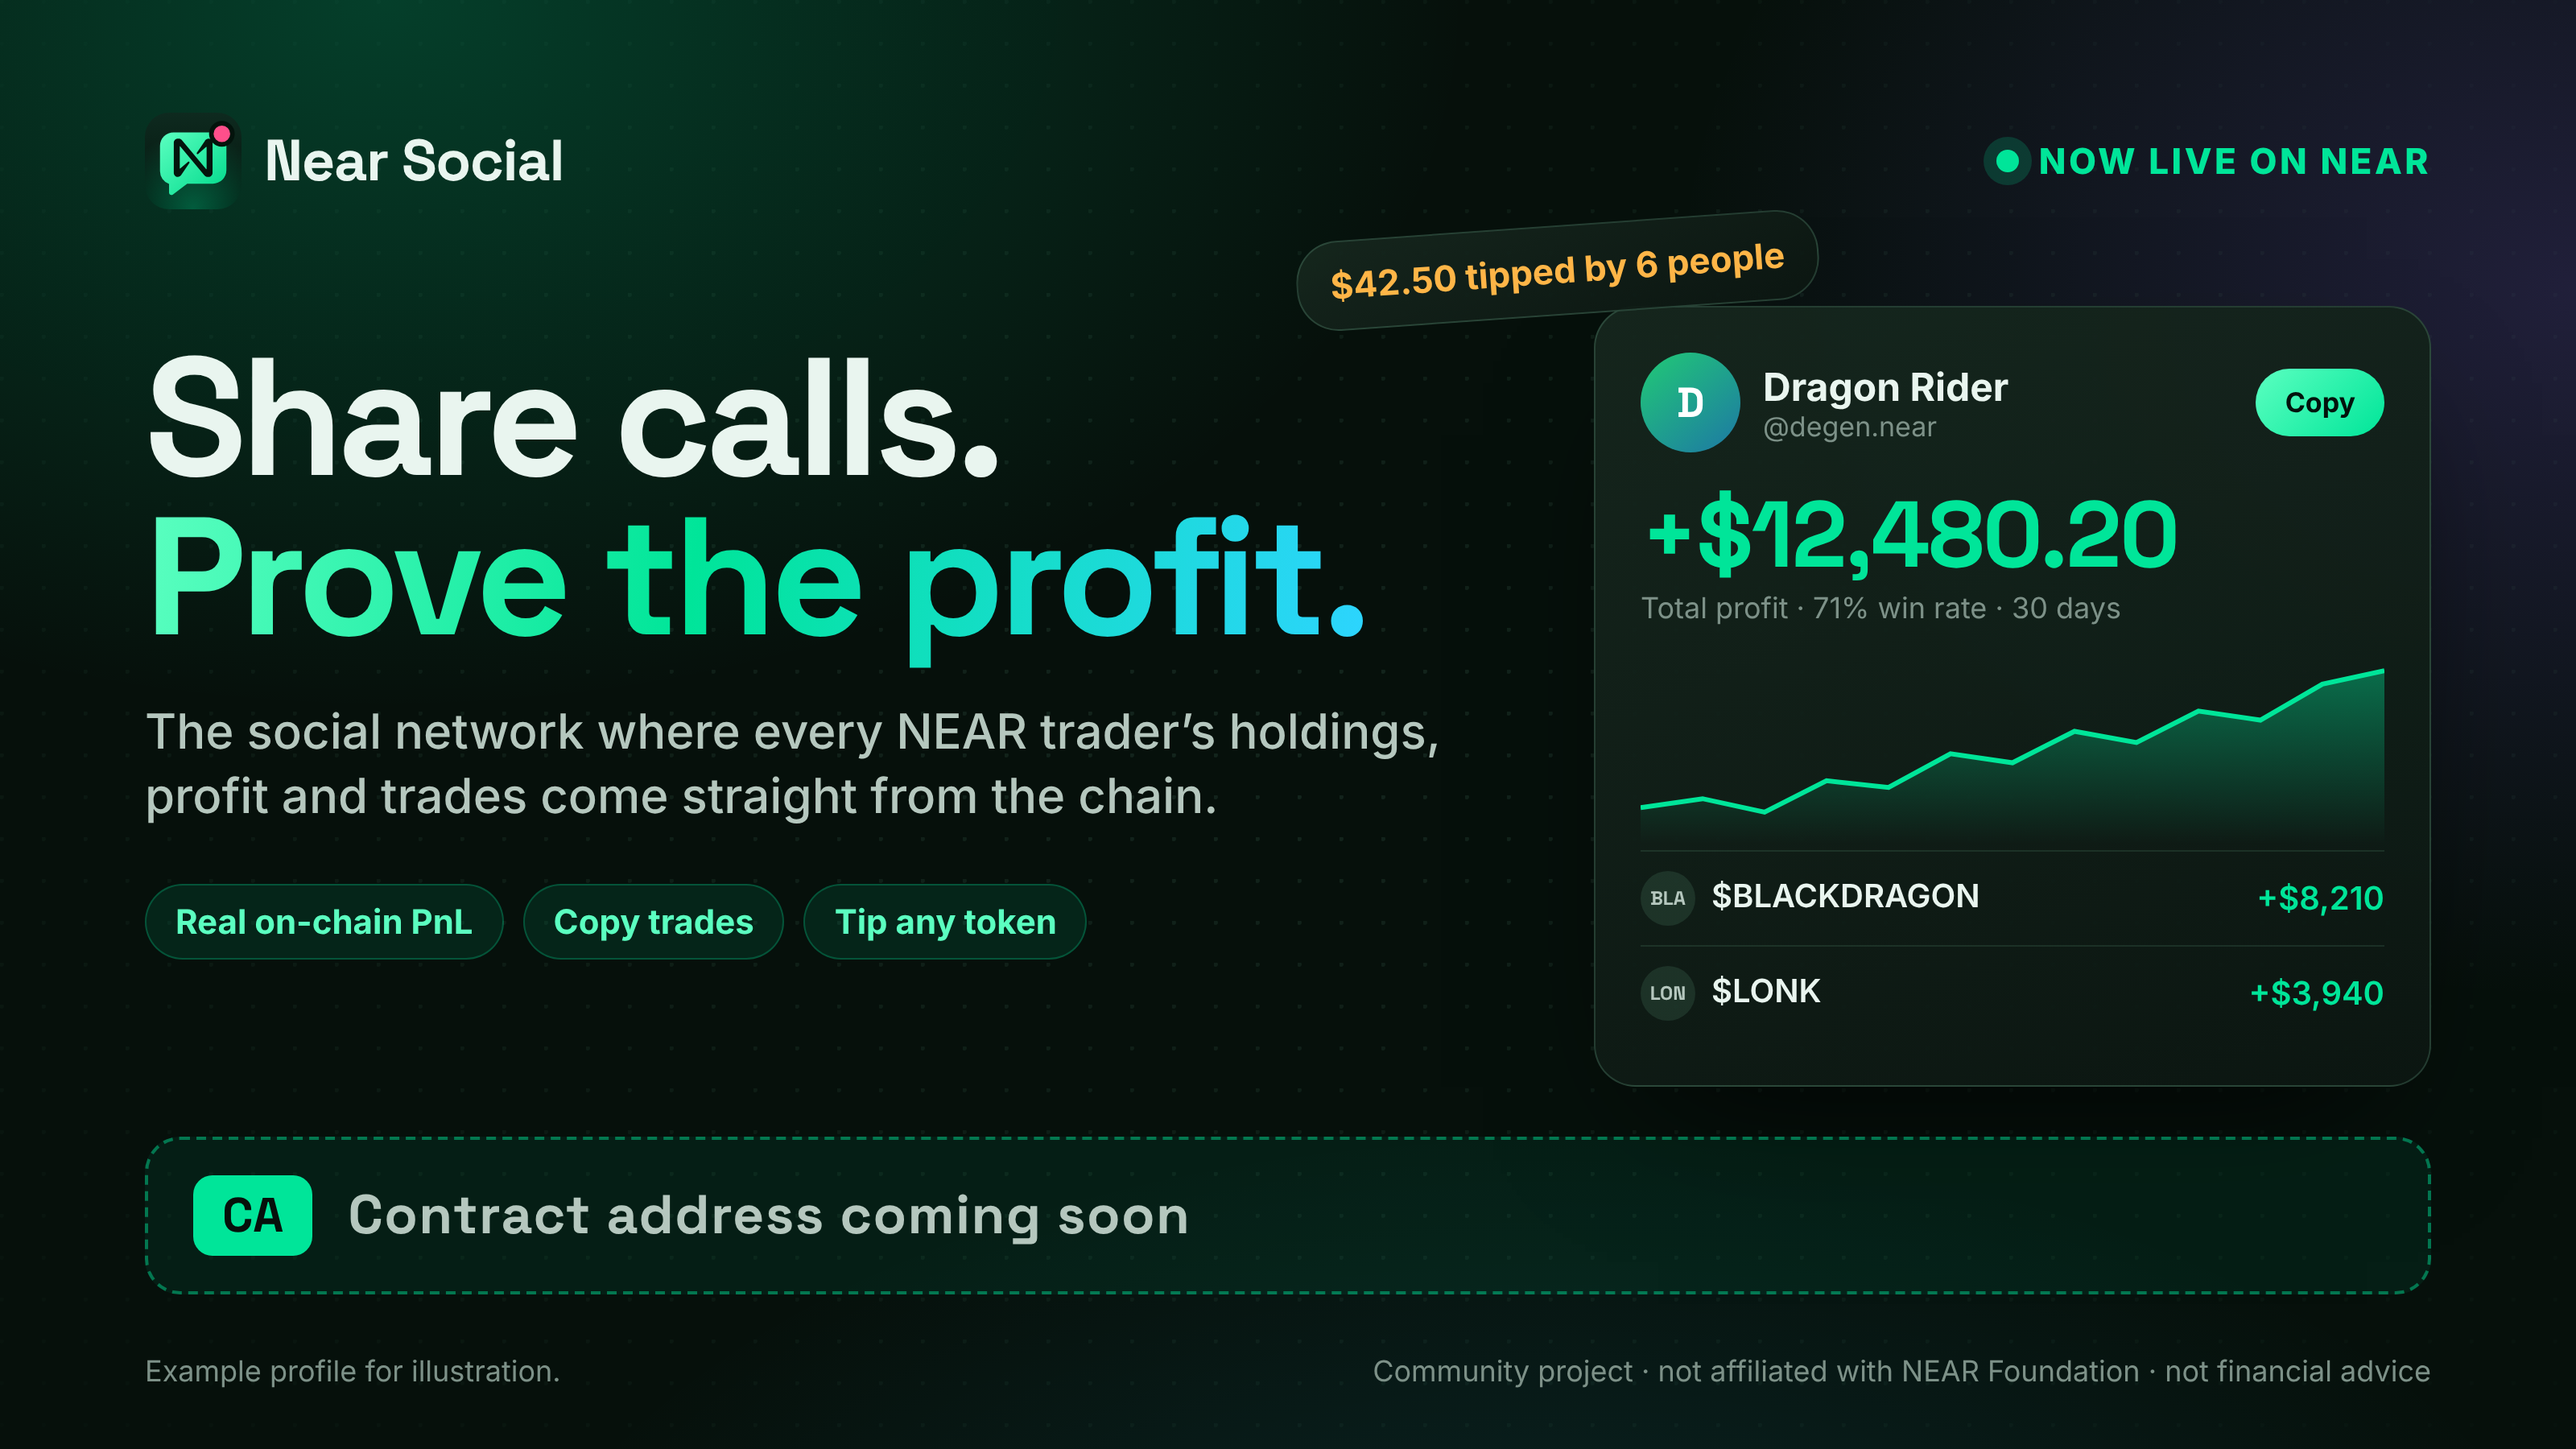
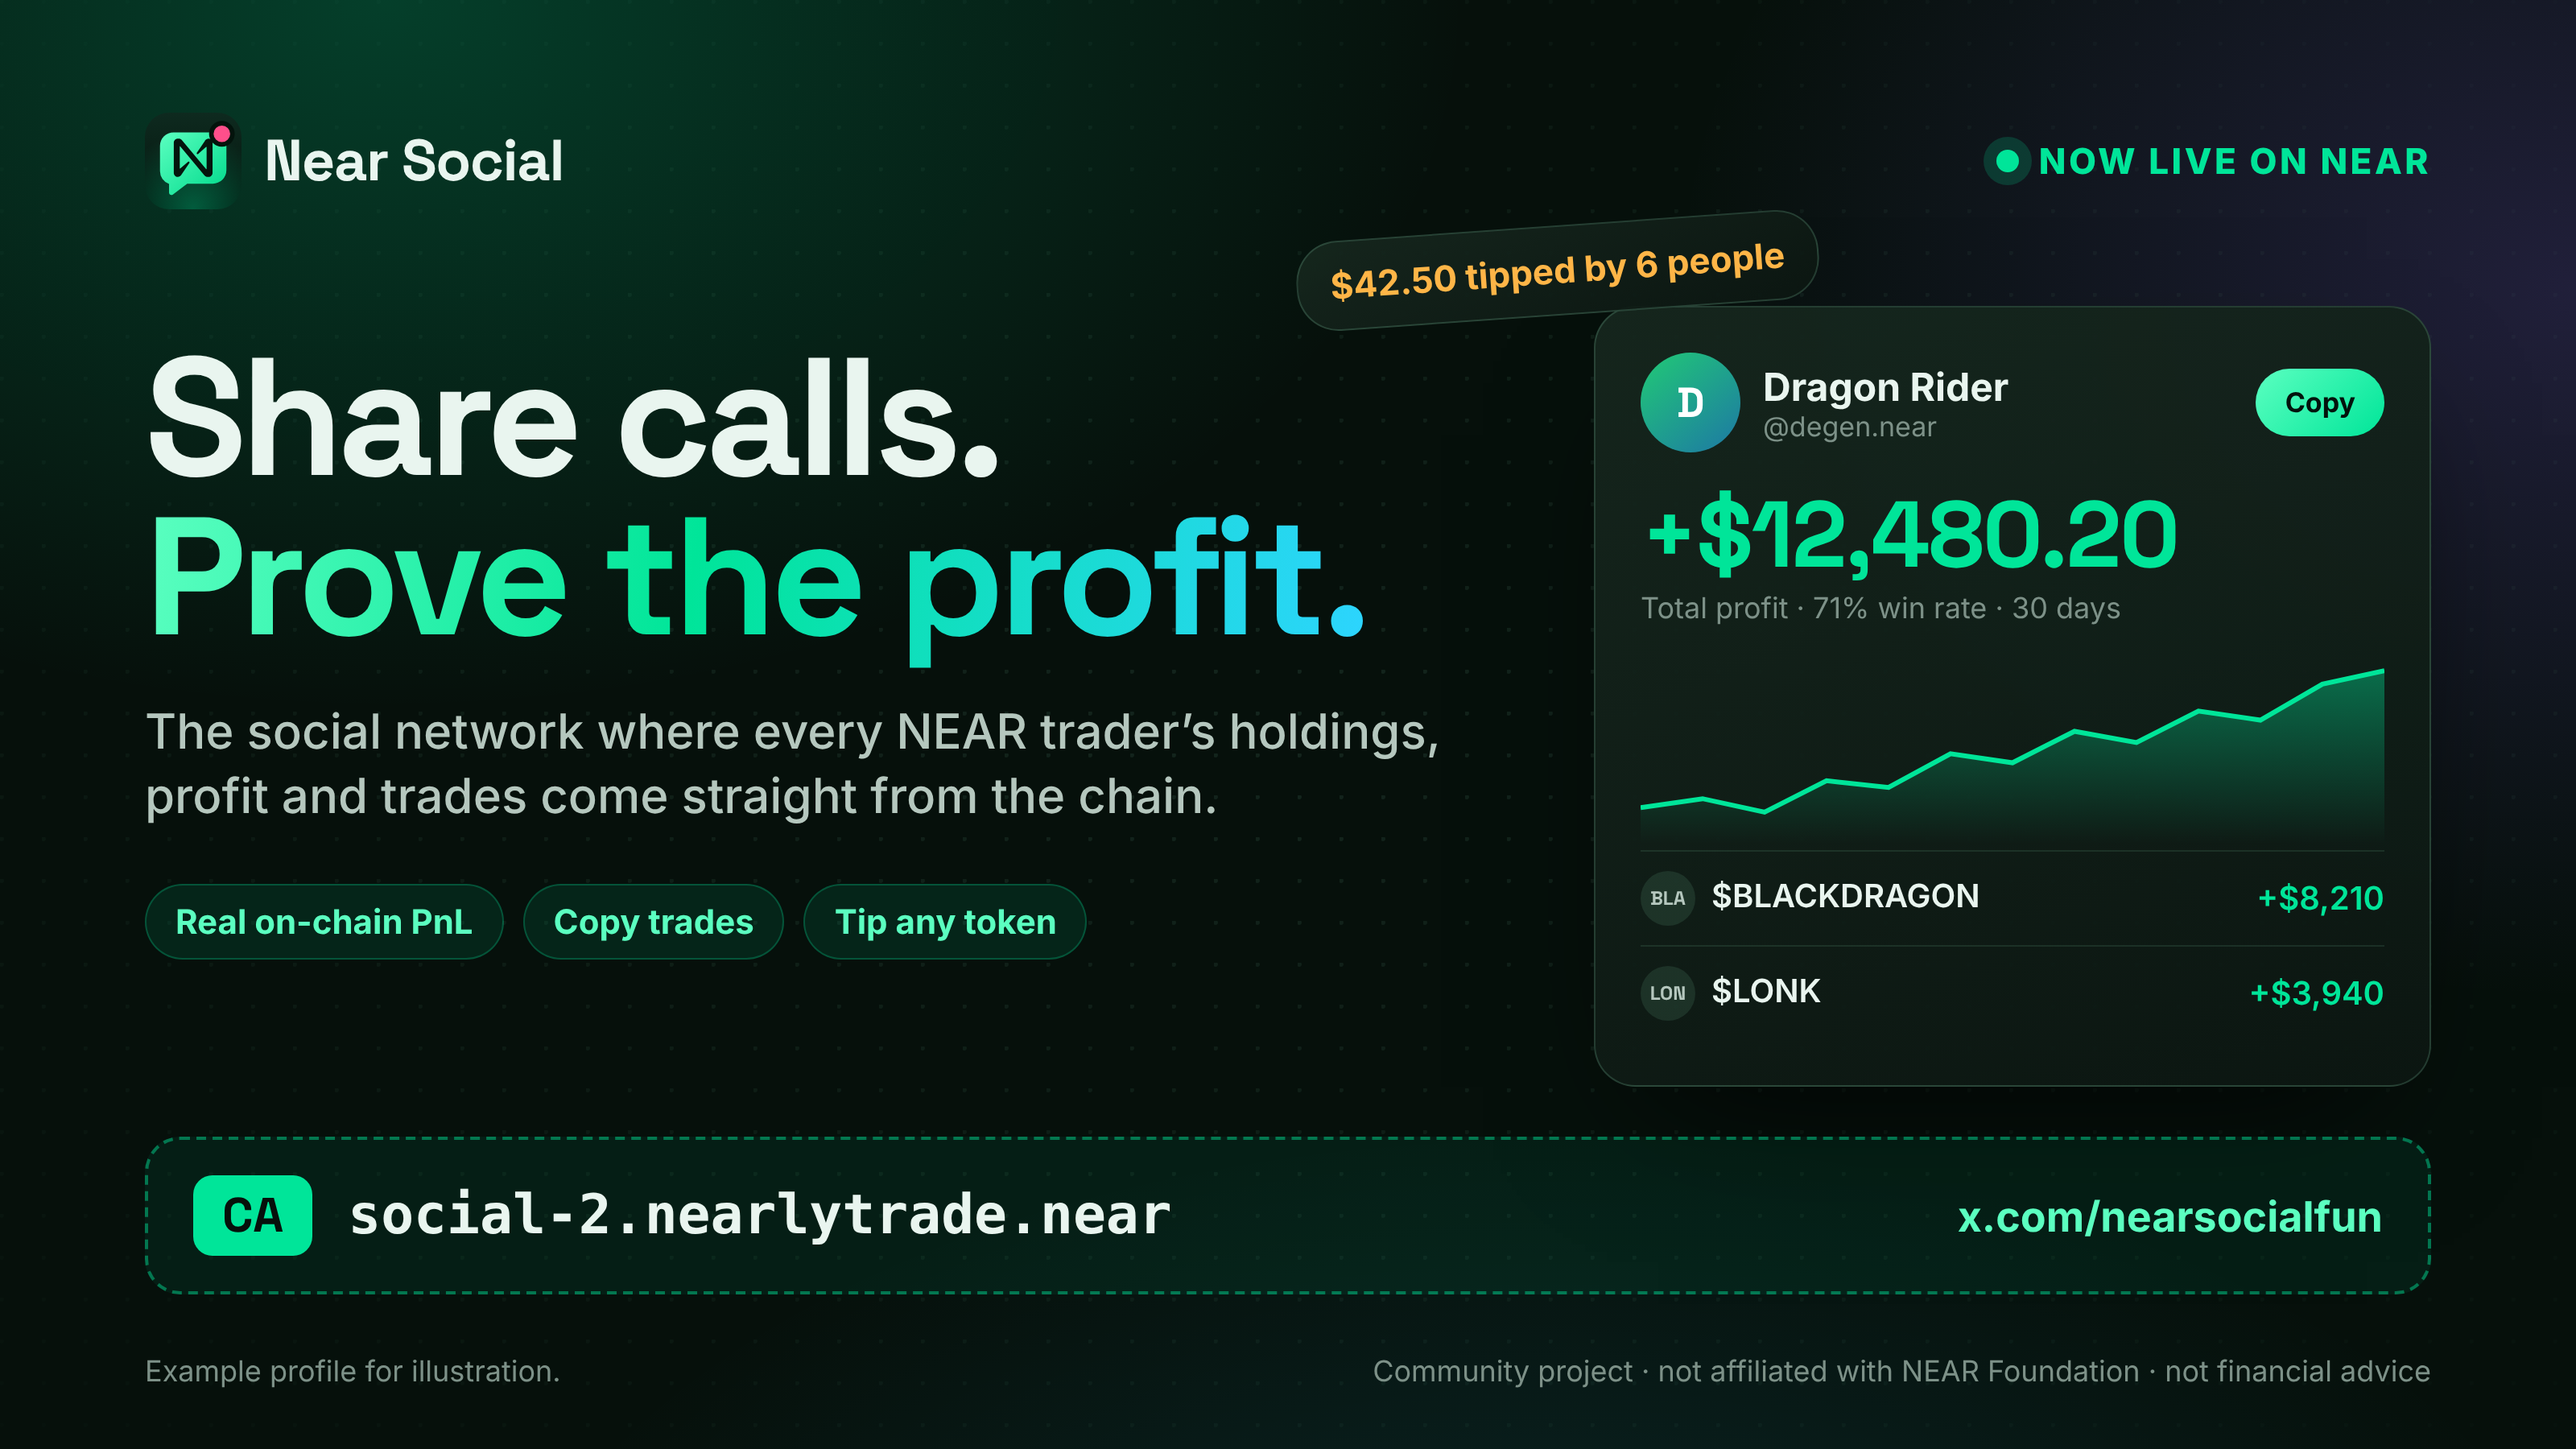
Show official CA and X account on the site and launch image
Adds TOKEN_CA (social-2.nearlytrade.near) and X_HANDLE (nearsocialfun)
settings. The home page, sidebar and About page show the CA with a Copy
button, a token page link and the X link.

Claude-Session: https://claude.ai/code/session_01B6oRzniDbEAMEUkP3ZUaxK

Changed region(s): [[0.125, 0.8089, 0.4688, 0.8711], [0.7812, 0.8089, 0.9375, 0.8711]]

diff --git a/public/app.js b/public/app.js
@@ -4,6 +4,7 @@
 
   // ------------------------------------------------------------------ icons
   const ICONS = {
+    xlogo: '<path fill="currentColor" stroke="none" d="M17.75 3h3.07l-6.7 7.66L22 21h-6.17l-4.83-6.32L5.47 21H2.4l7.17-8.2L2 3h6.33l4.37 5.77zm-1.08 16.2h1.7L7.4 4.73H5.58z"/>',
     home: '<path d="M3 10.5 12 3l9 7.5V20a1 1 0 0 1-1 1h-5v-6H9v6H4a1 1 0 0 1-1-1z"/>',
     trades: '<path d="M7 7h13l-4-4"/><path d="M17 17H4l4 4"/>',
     trophy: '<path d="M8 21h8M12 17v4M7 4h10v5a5 5 0 0 1-10 0z"/><path d="M17 5h3v2a3 3 0 0 1-3 3M7 5H4v2a3 3 0 0 0 3 3"/>',
@@ -754,6 +755,7 @@
     ];
     setPage(`${mobileTop()}${pageHead(`About ${app}`, 'The social network where every profile is backed by the NEAR blockchain.')}
       <div class="stack">
+        ${projectCard()}
         <section class="card pad"><h2 class="section-title">How it works</h2>
           <div class="steps">${steps.map(([ic, t, d], i) => `<div class="step"><span class="step-n">${i + 1}</span><div>${icon(ic)}<b>${esc(t)}</b><p>${esc(d)}</p></div></div>`).join('')}</div></section>
         <section class="card pad"><h2 class="section-title">What lives where</h2>
@@ -773,6 +775,20 @@
           ${faq.map(([q, a]) => `<details class="faq"><summary>${esc(q)}</summary><p>${esc(a)}</p></details>`).join('')}</section>
         <p class="foot-note" style="text-align:center">Not financial advice. Memecoins are extremely risky. Profits shown are past on-chain results.</p>
       </div>`);
+  }
+
+  // ------------------------------------------------------------------ official CA + X
+  const xUrl = () => (state.config.xHandle ? `https://x.com/${encodeURIComponent(state.config.xHandle)}` : '');
+  const xLink = (cls = 'btn sm') => (xUrl() ? `<a class="${cls}" href="${esc(xUrl())}" target="_blank" rel="noopener noreferrer">${icon('xlogo', 'sm')} @${esc(state.config.xHandle)}</a>` : '');
+  function projectCard(compact = false) {
+    const ca = state.config.tokenCa;
+    if (!ca && !xUrl()) return '';
+    return `<section class="card ca-card${compact ? ' compact' : ''}">
+      ${ca ? `<div class="ca-head"><span class="ca-label">Official CA</span><span class="muted">NEAR token contract</span></div>
+      <div class="ca-row"><code class="ca-value">${esc(ca)}</code><button class="btn sm primary" data-action="copy" data-text="${esc(ca)}" data-what="Contract address copied">${icon('copy', 'sm')} Copy</button></div>` : ''}
+      <div class="ca-actions">${ca ? `<a class="btn sm" href="${tokenLink(ca)}">${icon('chart', 'sm')} Token page</a>` : ''}${xLink()}</div>
+      ${ca ? '<p class="ca-warn">Only trust this CA. Copy it, never retype it. Look-alike tokens are scams.</p>' : ''}
+    </section>`;
   }
 
   // ------------------------------------------------------------------ landing (signed out)
@@ -817,6 +833,7 @@
           <div class="mock-float copy">${icon('copytrade', 'sm')} 128 copiers</div>
         </div>
       </section>
+      ${projectCard()}
       <section class="card stat-strip" id="siteStats">
         ${['Members', 'Trades tracked', 'Trading volume', 'Tipped to creators'].map((l) => `<div><b>—</b><span>${l}</span></div>`).join('')}
       </section>
@@ -1050,9 +1067,10 @@
 
   async function renderRail() {
     $('#rail').innerHTML = `<form data-form="search" class="search">${icon('search', 'sm')}<input type="search" name="q" placeholder="Search Near Social" aria-label="Search"></form>
+      ${projectCard(true)}
       <section class="card pad"><h3>Top traders</h3><div id="railBoard">${spinner}</div></section>
       <section class="card pad"><h3>Live trades</h3><div id="railTrades">${spinner}</div></section>
-      <div class="rail-foot"><a href="#/about">About</a> · Not financial advice · Built on NEAR</div>`;
+      <div class="rail-foot"><a href="#/about">About</a>${xUrl() ? ` · <a href="${esc(xUrl())}" target="_blank" rel="noopener noreferrer">X</a>` : ''} · Not financial advice · Built on NEAR</div>`;
     fillBoard($('#railBoard'), 5);
     fillTrades($('#railTrades'), 6);
   }
@@ -1100,7 +1118,7 @@
       }
       if (a === 'copy') {
         await navigator.clipboard.writeText(el.dataset.text).catch(() => {});
-        return toast('Account copied');
+        return toast(el.dataset.what || 'Account copied');
       }
       if (a === 'copy-user') return copyDialog({ wallet: el.dataset.wallet, name: el.dataset.name }, Number(el.dataset.amount) || 0);
       if (a === 'tip' || a === 'tip-user') return tipDialog({ wallet: el.dataset.wallet, name: el.dataset.name }, a === 'tip' ? Number(id) : null);

diff --git a/public/app.css b/public/app.css
@@ -520,3 +520,17 @@ img.avatar { object-fit: cover; background: var(--surface-3); }
 .avatar-edit b { display: block; }
 .avatar-edit p { margin: 2px 0 10px; font-size: 13.5px; }
 label.btn { cursor: pointer; }
+
+/* Official CA + X card */
+.ca-card { padding: 16px 18px; margin: 16px 0; border-color: rgba(0, 229, 153, 0.35); background: linear-gradient(135deg, rgba(0, 229, 153, 0.08), transparent 60%), var(--surface); }
+.stack > .ca-card, .rail > .ca-card { margin: 0; }
+.ca-head { display: flex; align-items: center; gap: 10px; margin-bottom: 10px; font-size: 13px; }
+.ca-label { font: 700 12px/1 var(--display); letter-spacing: 0.06em; text-transform: uppercase; color: #03130c; background: var(--mint); padding: 5px 9px; border-radius: 7px; }
+.ca-row { display: flex; align-items: center; gap: 10px; min-width: 0; }
+.ca-value { flex: 1; min-width: 0; overflow-wrap: anywhere; font: 600 16px/1.3 ui-monospace, "SF Mono", Menlo, Consolas, monospace; background: var(--surface-2); border: 1px dashed rgba(0, 229, 153, 0.45); border-radius: 10px; padding: 9px 12px; color: var(--text); }
+.ca-actions { display: flex; flex-wrap: wrap; gap: 8px; margin-top: 10px; }
+.ca-actions:empty { display: none; }
+.ca-warn { margin: 10px 0 0; font-size: 12.5px; color: var(--muted); }
+.ca-card.compact { padding: 14px; }
+.ca-card.compact .ca-value { font-size: 13px; padding: 8px 10px; }
+.ca-card.compact .ca-head .muted { display: none; }

diff --git a/test/app.test.js b/test/app.test.js
@@ -177,7 +177,7 @@ test('portfolio: average-cost profit with realized and unrealized parts', async 
 
 async function startApp(nearFake) {
   const db = openDb(null);
-  const cfg = { appName: 'Near Social', minTipNear: 0.01, syncBackfillEvents: 100, syncIntervalSec: 999, syncAccountsPerRound: 10 };
+  const cfg = { appName: 'Near Social', minTipNear: 0.01, syncBackfillEvents: 100, syncIntervalSec: 999, syncAccountsPerRound: 10, tokenCa: 'social-2.nearlytrade.near', xHandle: 'nearsocialfun' };
   const auth = createAuth({ db, near: nearFake, appName: cfg.appName, secret: 'x' });
   const portfolio = createPortfolio({ db, near: nearFake, quotes: priceFeed({ [WNEAR]: 5, [TOKEN]: 0.01 }) });
   const syncer = createSyncer({ db, near: nearFake, portfolio, cfg, log: { log() {}, error() {} } });
@@ -222,6 +222,9 @@ test('api: sign in, profile, post, like, repost, reply, follow, delete', async (
     const a = await app.client(alice);
     const b = await app.client(bob);
     const anon = await app.client(null);
+    const conf = (await anon('/config')).body;
+    assert.equal(conf.tokenCa, 'social-2.nearlytrade.near');
+    assert.equal(conf.xHandle, 'nearsocialfun');
     assert.equal((await a('/me')).body.user.wallet, 'alice.near');
     assert.equal((await a('/me', { method: 'PUT', body: { name: 'Alice', bio: 'gm', xHandle: '@alice' } })).body.user.xHandle, 'alice');
 

diff --git a/src/config.js b/src/config.js
@@ -26,6 +26,9 @@ function loadConfig() {
     nearblocksUrl: str('NEARBLOCKS_API_URL', 'https://api.nearblocks.io'),
     nearblocksKey: str('NEARBLOCKS_API_KEY', ''), // optional, raises the rate limit
     minTipNear: num('MIN_TIP_NEAR', 0.01),
+    // The project's own token contract and X account, shown on the site.
+    tokenCa: str('TOKEN_CA', 'social-2.nearlytrade.near'),
+    xHandle: str('X_HANDLE', 'nearsocialfun').replace(/^@/, ''),
     // Copy trades open this swap page. {from} and {to} are token contracts, or "near".
     swapUrl: str('COPY_SWAP_URL', 'https://app.ref.finance/#{from}|{to}'),
     copyCostPct: num('COPY_COST_PCT', 1), // swap cost per side used in copy simulations

diff --git a/src/routes.js b/src/routes.js
@@ -169,7 +169,13 @@ function createSocialRouter({ db, auth, near, portfolio, syncer, cfg, now = () =
   // ---- config & auth -------------------------------------------------------
 
   router.get('/config', (_req, res) => {
-    res.json({ appName: cfg.appName, minTipNear: cfg.minTipNear, network: 'mainnet' });
+    res.json({
+      appName: cfg.appName,
+      minTipNear: cfg.minTipNear,
+      network: 'mainnet',
+      tokenCa: isAccountId(cfg.tokenCa || '') ? cfg.tokenCa : '',
+      xHandle: /^[A-Za-z0-9_]{1,15}$/.test(cfg.xHandle || '') ? cfg.xHandle : '',
+    });
   });
 
   router.post('/auth/challenge', (req, res) => {

diff --git a/public/index.html b/public/index.html
@@ -13,6 +13,7 @@
 <meta property="og:description" content="The social network for NEAR traders. Real holdings, profit and trades on every profile.">
 <meta property="og:image" content="/brand/og.png">
 <meta name="twitter:card" content="summary_large_image">
+<meta name="twitter:site" content="@nearsocialfun">
 <meta name="twitter:image" content="/brand/og.png">
 <link rel="preconnect" href="https://fonts.googleapis.com">
 <link rel="preconnect" href="https://fonts.gstatic.com" crossorigin>

diff --git a/README.md b/README.md
@@ -69,6 +69,8 @@ with `npm run build:wallet`.
 | `NEARBLOCKS_API_URL` | `https://api.nearblocks.io` | Token transfer history (trades) |
 | `NEARBLOCKS_API_KEY` | (empty) | Optional, raises NearBlocks rate limits |
 | `MIN_TIP_NEAR` | `0.01` | Smallest tip accepted |
+| `TOKEN_CA` | `social-2.nearlytrade.near` | Official token contract, shown with a Copy button on the home page, sidebar and About page |
+| `X_HANDLE` | `nearsocialfun` | Official X account, linked next to the CA |
 | `COPY_SWAP_URL` | `https://app.ref.finance/#{from}\|{to}` | Swap page that copy signals open; `{from}`/`{to}` are token contracts or `near` |
 | `COPY_COST_PCT` | `1` | Swap cost per side used in copy simulations |
 | `SYNC_INTERVAL_SEC` | `300` | How often members are checked for new trades |

diff --git a/docs/LAUNCH.md b/docs/LAUNCH.md
@@ -23,6 +23,8 @@ Option B, re-render all PNGs:
 npm i -D playwright && npx playwright install chromium
 npm run dev    # in another terminal
 node scripts/render-brand.js --ca=YOUR_CONTRACT --url=https://YOUR-SITE
+
+`launch-post.png` in this repo is already rendered with `--ca=social-2.nearlytrade.near --url=x.com/nearsocialfun`.
 ```
 
 Always copy the CA from the deploy transaction, never retype it. Check the
